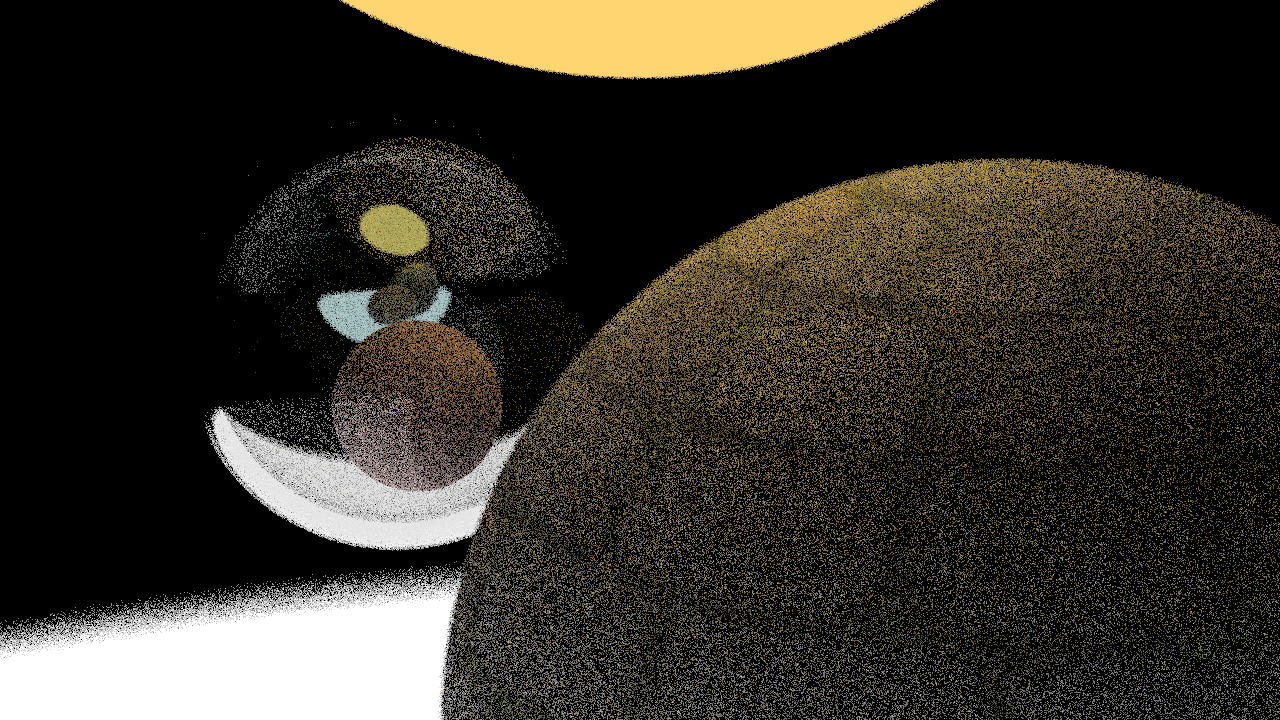
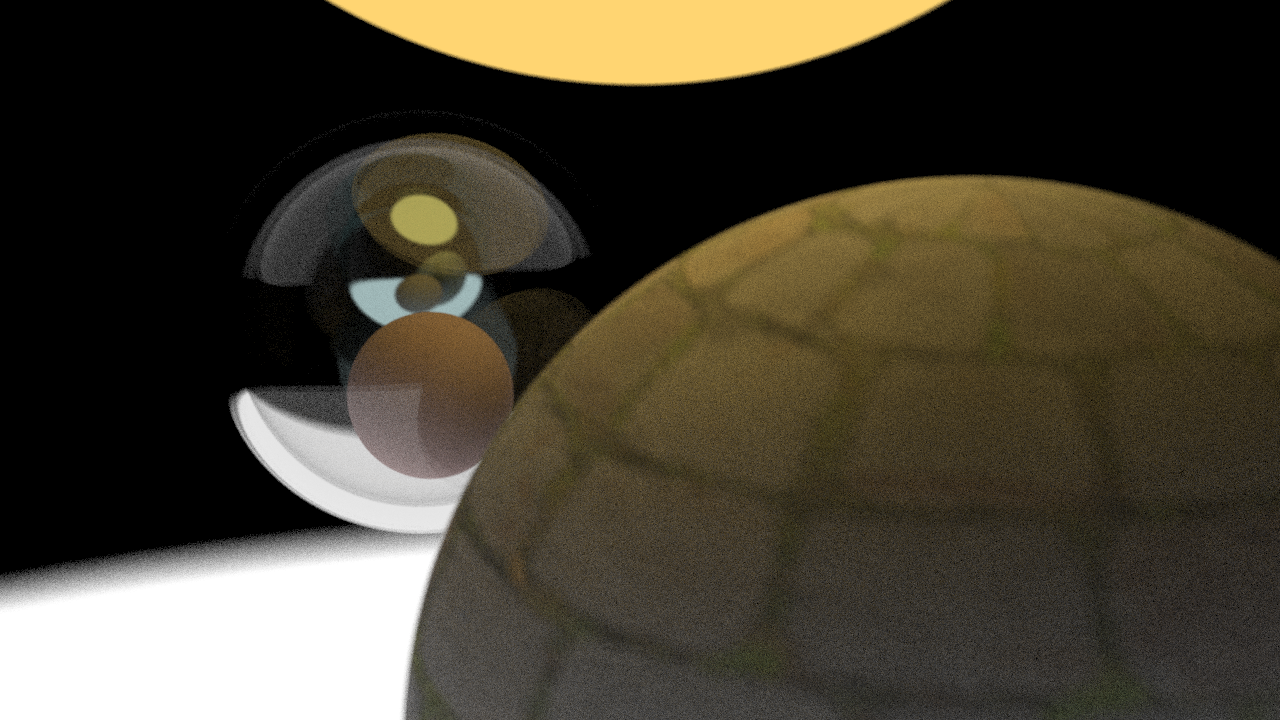
マルチスレッドのテスト

diff --git a/SimpleRayTracer/renderer.c b/SimpleRayTracer/renderer.c
@@ -1,6 +1,6 @@
 #define _USE_MATH_DEFINES
 #include <math.h>
-
+#include <windows.h>
 #include "simple_ray_tracer.h"
 
 #include "renderer.h"
@@ -14,7 +14,10 @@
 #include "material.h"
 #include "texture.h"
 
+#define NUM_THREADS 12
+
 static camera cam;
+static renderer_config r_conf_t;
 obj_list objects;
 
 void _renderer_init(int screen_rows, int screen_cols, int channels)
@@ -43,32 +46,53 @@ color3 calc_color(camera *cam, ray r, obj_list *list, int depth, color3 backgrou
 	return emitted;
 }
 
+void rendering_line(void *arg)
+{
+	int i = *(int *)arg;
+
+	for (int j = 0; j < r_conf_t.rendering_width; j++)
+	{
+		color3 c = zerosv3();
+
+		for (int k = 0; k < r_conf_t.num_samples; k++)
+		{
+			double v = ((double)i + random_double()) / (r_conf_t.rendering_height - 1);
+			double u = ((double)j + random_double()) / (r_conf_t.rendering_width - 1);
+
+			ray r = camera_get_ray(&cam, u, v);
+
+			c = addv(c, calc_color(&cam, r, &objects, r_conf_t.ray_max_depth, r_conf_t.background));
+		}
+		c = sqrtv(divv(r_conf_t.num_samples, c));
+
+		g_frame_buffer[((r_conf_t.rendering_height - 1 - i)*r_conf_t.rendering_width + j)*r_conf_t.num_channels + 0] = (unsigned char)(255.0*c.e[2]);
+		g_frame_buffer[((r_conf_t.rendering_height - 1 - i)*r_conf_t.rendering_width + j)*r_conf_t.num_channels + 1] = (unsigned char)(255.0*c.e[1]);
+		g_frame_buffer[((r_conf_t.rendering_height - 1 - i)*r_conf_t.rendering_width + j)*r_conf_t.num_channels + 2] = (unsigned char)(255.0*c.e[0]);
+	}
+}
+
 void _run_renderer(renderer_config r_conf, camera_config c_conf)
 {
+	r_conf_t = r_conf;
+
+	HANDLE handle[NUM_THREADS];
+	int i[NUM_THREADS];
+
 	camera_init(&cam, r_conf, c_conf);
 
-	for (int i = 0; i < r_conf.rendering_height; i++)
+	for (int t = 0; t < r_conf.rendering_height / NUM_THREADS + 1; t++)
 	{
-		for (int j = 0; j < r_conf.rendering_width; j++)
+		int tmp = ((t + 1)*NUM_THREADS > r_conf.rendering_height) ? r_conf.rendering_height - t*NUM_THREADS : NUM_THREADS;
+		
+		for (int s = 0; s < tmp; s++) 
 		{
-			color3 c = zerosv3();
-
-			for (int k = 0; k < r_conf.num_samples; k++)
-			{
-				double v = ((double)i + random_double()) / (r_conf.rendering_height - 1);
-				double u = ((double)j + random_double()) / (r_conf.rendering_width - 1);
-
-				ray r = camera_get_ray(&cam, u, v);
-				
-				c = addv(c, calc_color(&cam, r, &objects, r_conf.ray_max_depth, r_conf.background));
-			}
-			c = sqrtv(divv(r_conf.num_samples, c));
-
-			g_frame_buffer[((r_conf.rendering_height - 1 - i)*r_conf.rendering_width + j)*r_conf.num_channels + 0] = (unsigned char)(255.0*c.e[2]);
-			g_frame_buffer[((r_conf.rendering_height - 1 - i)*r_conf.rendering_width + j)*r_conf.num_channels + 1] = (unsigned char)(255.0*c.e[1]);
-			g_frame_buffer[((r_conf.rendering_height - 1 - i)*r_conf.rendering_width + j)*r_conf.num_channels + 2] = (unsigned char)(255.0*c.e[0]);
+			i[s] = t * NUM_THREADS + s;
+			handle[s] = CreateThread(0, 0, (LPTHREAD_START_ROUTINE)rendering_line, &i[s], 0, NULL);
 		}
-		//printf("%lf\n", (double)i / (double)(r_conf.rendering_height - 1));
+
+		WaitForMultipleObjects(NUM_THREADS,	handle, TRUE, INFINITE);
+		
+		for(int s = 0;s < tmp;s++) CloseHandle(handle[s]);
 	}
 
 	return;

diff --git a/TestAppPy/movie_rendering_test.py b/TestAppPy/movie_rendering_test.py
@@ -73,8 +73,8 @@ test_dll.enable_direct_frame_buffer(buffer.ctypes.data_as(ctypes.POINTER(ctypes.
 r_conf = renderer_config(rendering_width=cols, 
                             rendering_height=rows, 
                             num_channels=3, 
-                            num_samples=3, 
-                            ray_max_depth=10,
+                            num_samples=1000, 
+                            ray_max_depth=20,
                             background=vec3(to_c_array_d([0.0, 0.0, 0.0])))
 
 #
@@ -132,7 +132,7 @@ t4 = texture()
 m4 = material()
 obj4 = object()
 
-test_dll.create_solid_color_texture(vec3(to_c_array_d([1.0, 0.7, 0.2])), ctypes.byref(t4))
+test_dll.create_solid_color_texture(vec3(to_c_array_d([1.0, 1.0, 1.0])), ctypes.byref(t4))
 test_dll.create_diffuse_light_material(t4, ctypes.byref(m4))
 test_dll.create_sphere_object(vec3(to_c_array_d([-0.5, 1.5, -1.0])), ctypes.c_double(1.0), ctypes.byref(obj4))
 test_dll.add_object(obj4, m4)
@@ -165,7 +165,7 @@ for i in tqdm(range(t_len*fps)):
 
     res = buffer.reshape(rows, cols, 3)
     cv2.imshow(window_name, res)
-    cv2.imwrite("tset.png", res)
+    #cv2.imwrite("tset.png", res)
     out.write(res)
     
     if cv2.waitKey(1) == 27:
